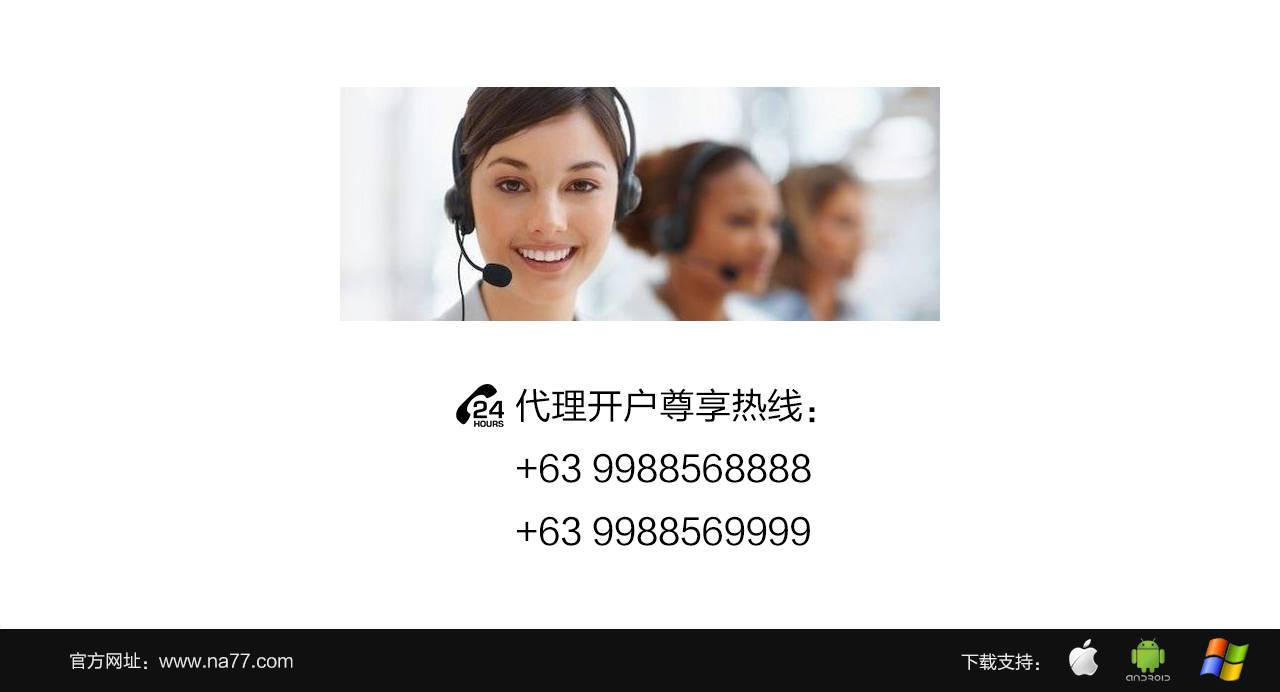
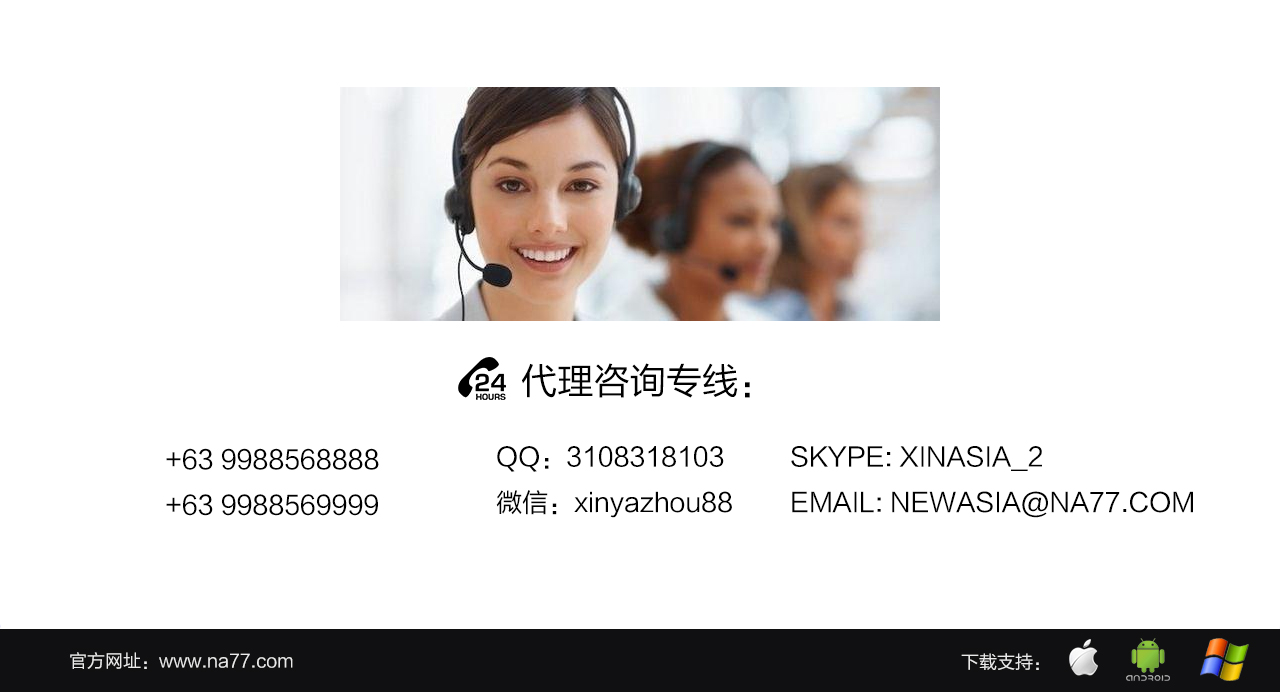
更换资源

diff --git a/new-na-web/src/views/businessDetail.vue b/new-na-web/src/views/businessDetail.vue
@@ -254,7 +254,7 @@
                 },
                 {
                   id: 3,
-                  name: '开户热线',
+                  name: '咨询热线',
                   content: require('@/assets/img/detail/dl-dj.jpg'),
                   titleImg: require('@/assets/img/detail/dj-01.png'),
                   isActive: false
@@ -312,7 +312,7 @@
                     },
                     {
                       id: 3,
-                      name: '开户热线',
+                      name: '咨询热线',
                       content: require('@/assets/img/detail/dl-dj.jpg'),
                       titleImg: require('@/assets/img/detail/dj-01.png'),
                       isActive: false
@@ -395,7 +395,7 @@
                 },
                 {
                   id: 3,
-                  name: '开户热线',
+                  name: '咨询热线',
                   content: require('@/assets/img/detail/mobile/dl-dj.jpg'),
                   titleImg: require('@/assets/img/detail/mobile/api-dj-title.png'),
                   isActive: false
@@ -454,7 +454,7 @@
                     },
                     {
                       id: 3,
-                      name: '开户热线',
+                      name: '咨询热线',
                       content: require('@/assets/img/detail/mobile/dl-dj.jpg'),
                       titleImg: require('@/assets/img/detail/mobile/api-dj-title.png'),
                       isActive: false
